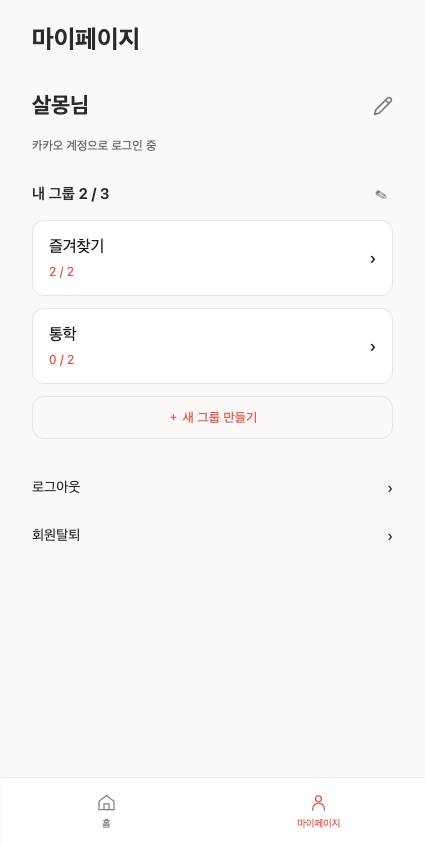
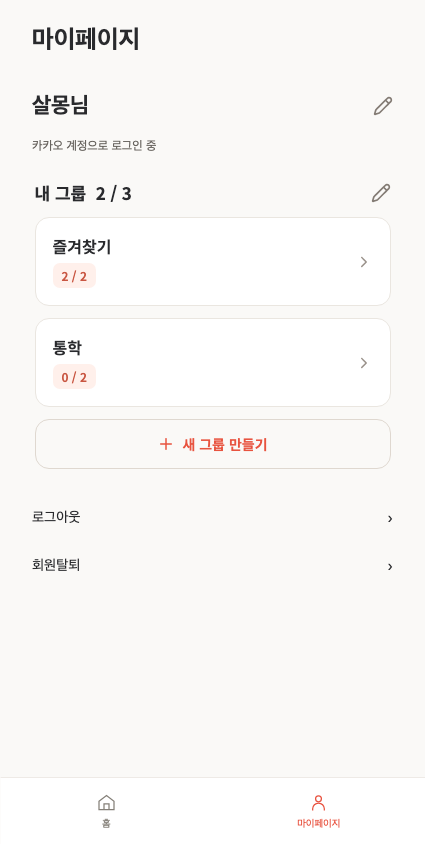
fix(SAL-249): 마이페이지 즐겨찾기 그룹 설정 시안 적용

diff --git a/frontend/src/pages/my-page/components/GroupList.css.ts b/frontend/src/pages/my-page/components/GroupList.css.ts
@@ -1,18 +1,27 @@
 import { style } from "@vanilla-extract/css";
 import { vars } from "@/shared/styles/tokens.css";
-import { card } from "@/shared/styles/surface.css";
 import { text } from "@/shared/styles/button.css";
 
-export const section = style({ margin: "0 0 24px" });
-export const edit = style([text, { display: "grid", placeItems: "center" }]);
+export const section = style({
+  display: "flex",
+  flexDirection: "column",
+  gap: 12,
+  maxWidth: 356,
+  margin: "0 auto 24px",
+  fontFamily: "'Noto Sans KR', 'Apple SD Gothic Neo', sans-serif",
+  color: "#292A2D",
+});
+export const edit = style([text, { display: "grid", placeItems: "center", padding: 0, flexShrink: 0 }]);
 export const heading = style({
   display: "flex",
   alignItems: "center",
   justifyContent: "space-between",
   gap: 12,
-  margin: "24px 0 12px",
-  fontSize: 15,
-  fontWeight: 600,
+  margin: 0,
+  fontSize: 17,
+  fontWeight: 700,
+  lineHeight: "25px",
+  whiteSpace: "pre-wrap",
 });
 export const list = style({
   display: "flex",
@@ -22,16 +31,45 @@ export const list = style({
   margin: 0,
   listStyle: "none",
 });
-export const count = style({ display: "block", marginTop: 7, fontSize: 12, color: vars.color.brand });
-export const add = style([
-  card,
-  {
-    width: "100%",
-    marginTop: 12,
-    padding: 12,
-    textAlign: "center",
-    color: vars.color.brand,
-    fontSize: 13,
-    background: "transparent",
-  },
-]);
+export const group = style({
+  display: "flex",
+  alignItems: "center",
+  gap: 12,
+  padding: 17,
+  border: "1px solid #EAE6E0",
+  borderRadius: 14,
+  background: vars.color.surface,
+  color: "inherit",
+  textDecoration: "none",
+});
+export const info = style({
+  display: "flex",
+  flexDirection: "column",
+  alignItems: "flex-start",
+  gap: 5,
+  flex: 1,
+  minWidth: 0,
+});
+export const name = style({ fontSize: 16, fontWeight: 600, lineHeight: "23px", overflowWrap: "anywhere" });
+export const count = style({
+  padding: "4px 9px",
+  borderRadius: 7,
+  background: "#FFF0EB",
+  color: "#C95642",
+  fontSize: 12,
+  fontWeight: 600,
+  lineHeight: "17px",
+});
+export const add = style({
+  display: "flex",
+  alignItems: "center",
+  justifyContent: "center",
+  gap: 7,
+  height: 50,
+  border: "1px solid #DFD8D0",
+  borderRadius: 14,
+  color: vars.color.liveBus,
+  fontSize: 14,
+  fontWeight: 600,
+  textDecoration: "none",
+});

diff --git a/frontend/src/pages/my-page/components/GroupList.tsx b/frontend/src/pages/my-page/components/GroupList.tsx
@@ -1,4 +1,3 @@
-import * as surface from "@/shared/styles/surface.css";
 import { useEffect, useRef, useState } from "react";
 import { Link } from "react-router";
 import { useFavorites } from "@/shared/hooks/useFavorites";
@@ -7,6 +6,8 @@ import { FavoriteEditor } from "@/shared/components/favorite-editor/FavoriteEdit
 import { Notice } from "@/shared/components/Notice";
 import * as styles from "./GroupList.css";
 import pencilIcon from "../assets/pencil.svg";
+import chevronIcon from "../assets/group-chevron.svg";
+import plusIcon from "../assets/group-plus.svg";
 
 export function GroupList() {
   const { groups, resource, reload } = useFavorites();
@@ -28,7 +29,7 @@ export function GroupList() {
   return (
     <section className={`${styles.section} amp-mask`} aria-label="즐겨찾기 그룹 관리">
       <h2 className={styles.heading}>
-        내 그룹 {groups.length} / 3{" "}
+        <span>{`내 그룹  ${groups.length} / 3`}</span>
         <button
           ref={editButton}
           className={styles.edit}
@@ -43,19 +44,19 @@ export function GroupList() {
       <ul className={styles.list}>
         {groups.map((group) => (
           <li key={group.id}>
-            <Link className={surface.row} to={`/mypage/groups/${encodeURIComponent(group.id)}`}>
-              <span>
-                {group.name}
+            <Link className={styles.group} to={`/mypage/groups/${encodeURIComponent(group.id)}`}>
+              <span className={styles.info}>
+                <span className={styles.name}>{group.name}</span>
                 <span className={styles.count}>{group.favorites.length} / 2</span>
               </span>
-              <span aria-hidden="true">›</span>
+              <img src={chevronIcon} width="18" height="18" alt="" draggable={false} />
             </Link>
           </li>
         ))}
       </ul>
       {resource.status === "success" && groups.length < 3 && (
         <Link className={styles.add} to="/mypage/groups/new">
-          ＋ 새 그룹 만들기
+          <img src={plusIcon} width="18" height="18" alt="" draggable={false} />새 그룹 만들기
         </Link>
       )}
       {notice > 0 && <Notice key={notice} message="변경 사항을 저장했어요" />}

diff --git a/frontend/e2e/favorites-layout.spec.ts b/frontend/e2e/favorites-layout.spec.ts
@@ -40,6 +40,14 @@ for (const width of [320, 425]) {
 
     await page.getByRole("link", { name: "마이페이지", exact: true }).click();
     await expect(page.getByRole("region", { name: "즐겨찾기 그룹 관리" }).getByRole("link")).toHaveCount(3);
+    const groups = page.getByRole("region", { name: "즐겨찾기 그룹 관리" });
+    const groupCard = groups.locator("ul a").first();
+    const groupBounds = await groupCard.boundingBox();
+    expect(groupBounds!.width).toBe(width === 425 ? 356 : width - 64);
+    expect(groupBounds!.height).toBe(89);
+    await expect(groupCard.getByText("2 / 2", { exact: true })).toHaveCSS("background-color", "rgb(255, 240, 235)");
+    expect((await groups.getByRole("link", { name: "새 그룹 만들기", exact: true }).boundingBox())!.height).toBe(50);
+    expect(await page.evaluate(() => document.documentElement.scrollWidth <= window.innerWidth)).toBe(true);
     if (width === 425 && browserName === "chromium")
       await page.screenshot({ path: "/private/tmp/salmonbus-sal249-qa/groups.png" });
     await page.getByRole("link", { name: /즐겨찾기.*2 \/ 2/ }).click();
